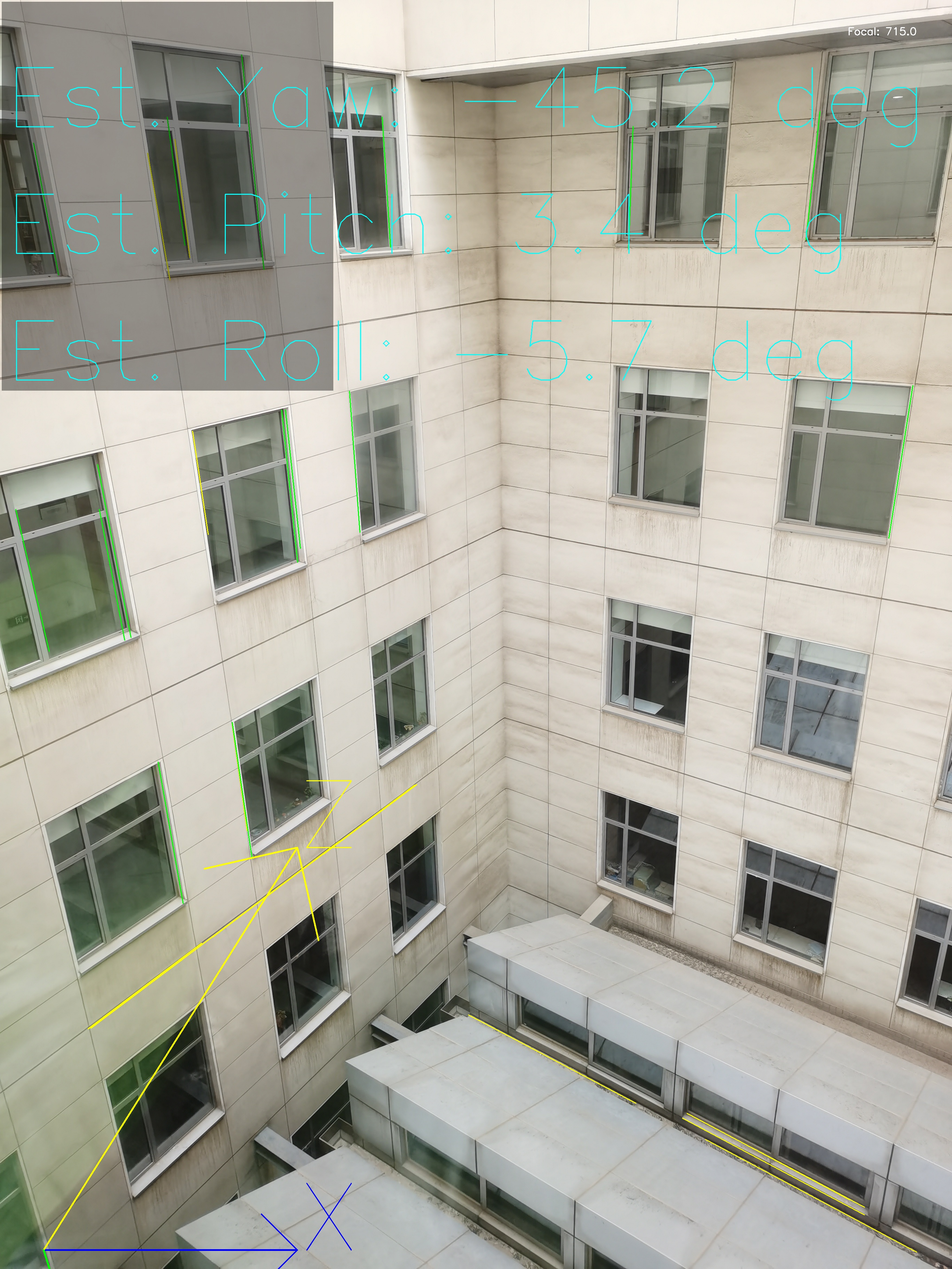
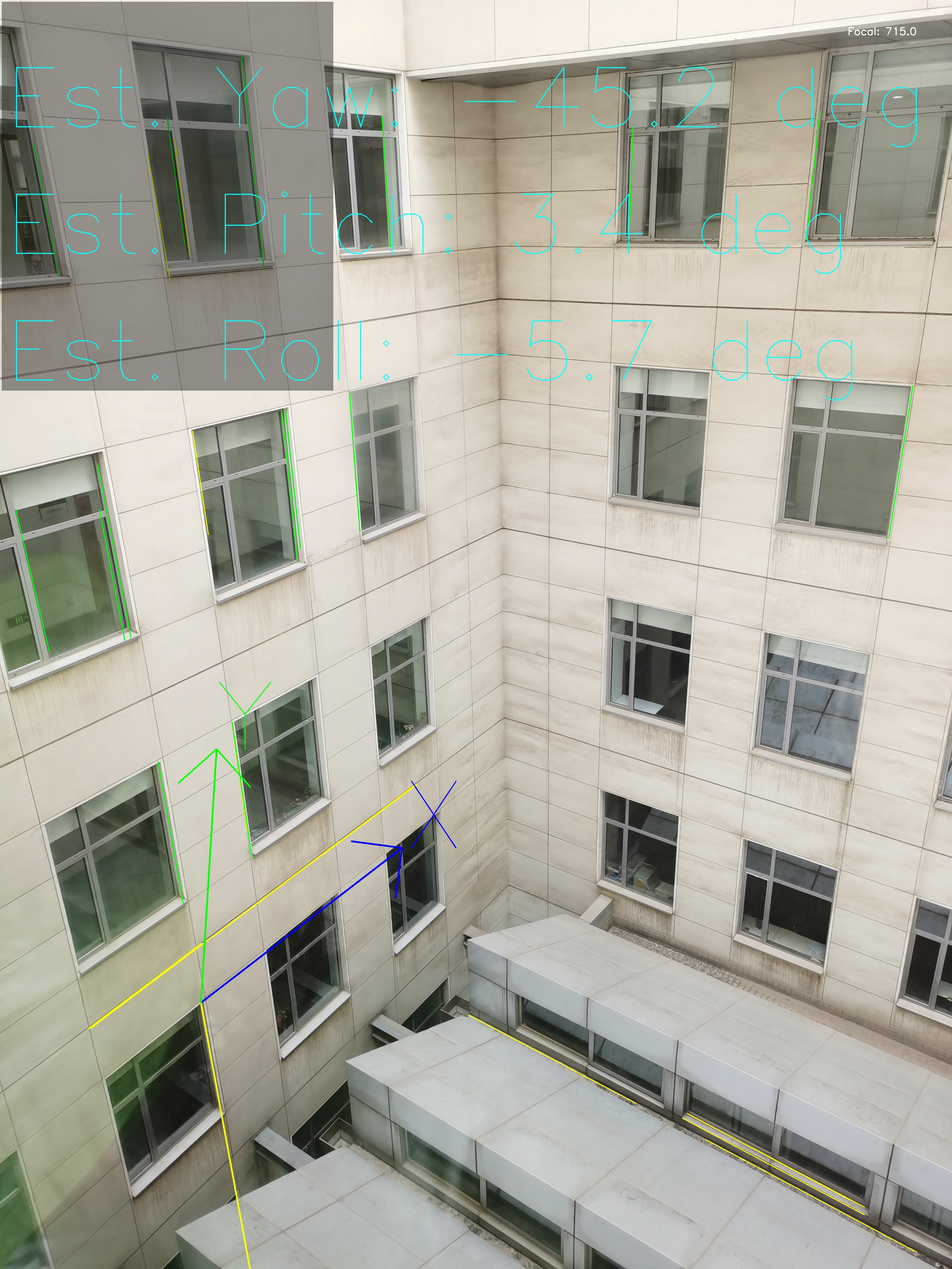
feat: perfectly reconstruct vanishing points for axes rendering and dynamically find corner origin

diff --git a/src/vp_calib/engine.py b/src/vp_calib/engine.py
@@ -143,6 +143,17 @@ def calculate_rotation_matrix(vps: List[np.ndarray], focal: float, pp: np.ndarra
     
     return np.column_stack((ux, uy, uz))
 
+def reconstruct_vps(rm: np.ndarray, focal: float, pp: np.ndarray) -> List[np.ndarray]:
+    vps_perfect = []
+    for i in range(3):
+        v = rm[:, i]
+        vp = np.array([v[0]*focal + v[2]*pp[0], v[1]*focal + v[2]*pp[1], v[2]])
+        if abs(vp[2]) > 1e-5:
+            vp[:2] /= vp[2]
+            vp[2] = 1.0
+        vps_perfect.append(vp)
+    return vps_perfect
+
 def calculate_camera_attitude(r: np.ndarray) -> np.ndarray:
     p = math.asin(-r[1, 2])
     if abs(math.cos(p)) > EPS:
@@ -183,23 +194,19 @@ def draw_axes_on_image(image: np.ndarray, vps: List[np.ndarray], origin_px: Unio
 
 def estimate_origin_from_inliers(image_shape: Tuple[int, ...], inlier_masks: List[np.ndarray], lines: np.ndarray) -> List[int]:
     h, w = image_shape[:2]
-    try:
-        if len(inlier_masks) >= 3 and inlier_masks[2] is not None:
-            iy_mask = inlier_masks[2]
-            v_lines = lines[iy_mask]
-            if len(v_lines) > 0:
-                # Find the lowest point of the vertical lines (wall corner at the floor)
-                max_y = -1
-                best_pt = [w // 2, int(h * 0.85)]
-                for line in v_lines:
-                    for pt in line:
-                        if pt[1] > max_y:
-                            max_y = pt[1]
-                            best_pt = pt.tolist()
-                return [int(best_pt[0]), int(best_pt[1])]
-    except Exception:
-        pass
-    return [w // 2, int(h * 0.85)]
+    ox, oy = int(w * 0.15), int(h * 0.85)
+    
+    if len(inlier_masks) >= 3 and inlier_masks[1] is not None and inlier_masks[2] is not None:
+        y_lines = lines[inlier_masks[2]]
+        if len(y_lines) > 0:
+            y_pts = y_lines.reshape(-1, 2)
+            dists = np.linalg.norm(y_pts - np.array([w*0.2, h*0.8]), axis=1)
+            best_pt = y_pts[np.argmin(dists)]
+            pad = int(min(w, h) * 0.15)
+            ox = int(np.clip(best_pt[0], pad, w - pad))
+            oy = int(np.clip(best_pt[1], pad, h - pad))
+    return [ox, oy]
+
 def determine_focal_length(vps: List[np.ndarray], image: np.ndarray) -> List[float]:
     default_focal = 715.0
     if len(vps) >= 3 and vps[1] is not None and vps[2] is not None:
@@ -246,7 +253,8 @@ def main(image_path: str, origin_x: float = 0, origin_y: float = 0, camera_h: fl
     trans_vec = np.array([0, camera_h, camera_h * math.tan(pitch_rad)]) if abs(math.cos(pitch_rad)) > EPS else np.array([0, camera_h, 0])
     
     origin = [int(origin_x), int(origin_y)] if origin_x > 0 else estimate_origin_from_inliers(full.shape, inliers, viz[3])
-    res = draw_axes_on_image(full, vps, origin, attitude=att)
+    vps_reconstructed = reconstruct_vps(rm, focal, pp)
+    res = draw_axes_on_image(full, vps_reconstructed, origin, attitude=att)
     os.makedirs("outputs", exist_ok=True)
     cv2.imwrite(os.path.join("outputs", f"result_{img_name}.png"), cv2.cvtColor(res, cv2.COLOR_RGB2BGR))
     return focal, rm, trans_vec

diff --git a/main.py b/main.py
@@ -14,7 +14,7 @@ try:
         get_vp_inliers, draw_axes_on_image, calculate_camera_attitude, 
         determine_focal_length, read_image,
         calculate_rotation_matrix, draw_inliers,
-        estimate_origin_from_inliers
+        estimate_origin_from_inliers, reconstruct_vps
     )
 except ImportError as e:
     print(f"Import Error: {e}")
@@ -66,6 +66,7 @@ def process_single_image(img_path: str, output_path: Optional[str] = None):
             
         focal_results = determine_focal_length(selected_vps, frame)
         focal = focal_results[0]
+        focal = determine_focal_length(selected_vps, frame)[0]
         rot_matrix = calculate_rotation_matrix(selected_vps, focal, pp)
         attitude = calculate_camera_attitude(rot_matrix)
 
@@ -76,8 +77,9 @@ def process_single_image(img_path: str, output_path: Optional[str] = None):
 
         # 2. 自動估計繪圖原點 (地平線起點)
         origin = estimate_origin_from_inliers(frame.shape, inliers, viz_stuff[3])
+        vps_reconstructed = reconstruct_vps(rot_matrix, focal, pp)
             
-        processed_frame = draw_axes_on_image(processed_frame, selected_vps, origin, length=height//4, attitude=attitude)
+        processed_frame = draw_axes_on_image(processed_frame, vps_reconstructed, origin, length=height//4, attitude=attitude)
         
         if focal:
             cv2.putText(processed_frame, f"Focal: {focal:.1f}", (width - 300, 100), 
@@ -110,10 +112,12 @@ def process_video(video_path: str, output_path: str, stride: int = 2, max_frames
                 frame_rgb = cv2.cvtColor(frame, cv2.COLOR_BGR2RGB)
                 in_masks, vps, viz = get_vp_inliers(frame_rgb, 1.2, 1.5, 2.0, 1000, 30, 10, 2.0, 800)
                 if len(vps) >= 2:
-                    f = determine_focal_length(vps, frame)[0]
-                    att = calculate_camera_attitude(calculate_rotation_matrix(vps, f, [width/2, height/2]))
+                    focal = determine_focal_length(vps, frame)[0]
+                    rm = calculate_rotation_matrix(vps, focal, [width//2, height//2])
+                    att = calculate_camera_attitude(rm)
+                    vps_reconstructed = reconstruct_vps(rm, focal, [width//2, height//2])
                     # 影片繪製原點設在中心
-                    processed_frame = draw_axes_on_image(frame, vps, [width//2, height//2], length=height//4, attitude=att)
+                    processed_frame = draw_axes_on_image(frame, vps_reconstructed, [width//2, height//2], length=height//4, attitude=att)
                 else:
                     processed_frame = frame
                 proc_fps = 1.0 / (time.time() - start_time) if (time.time() - start_time) > 0 else 0
